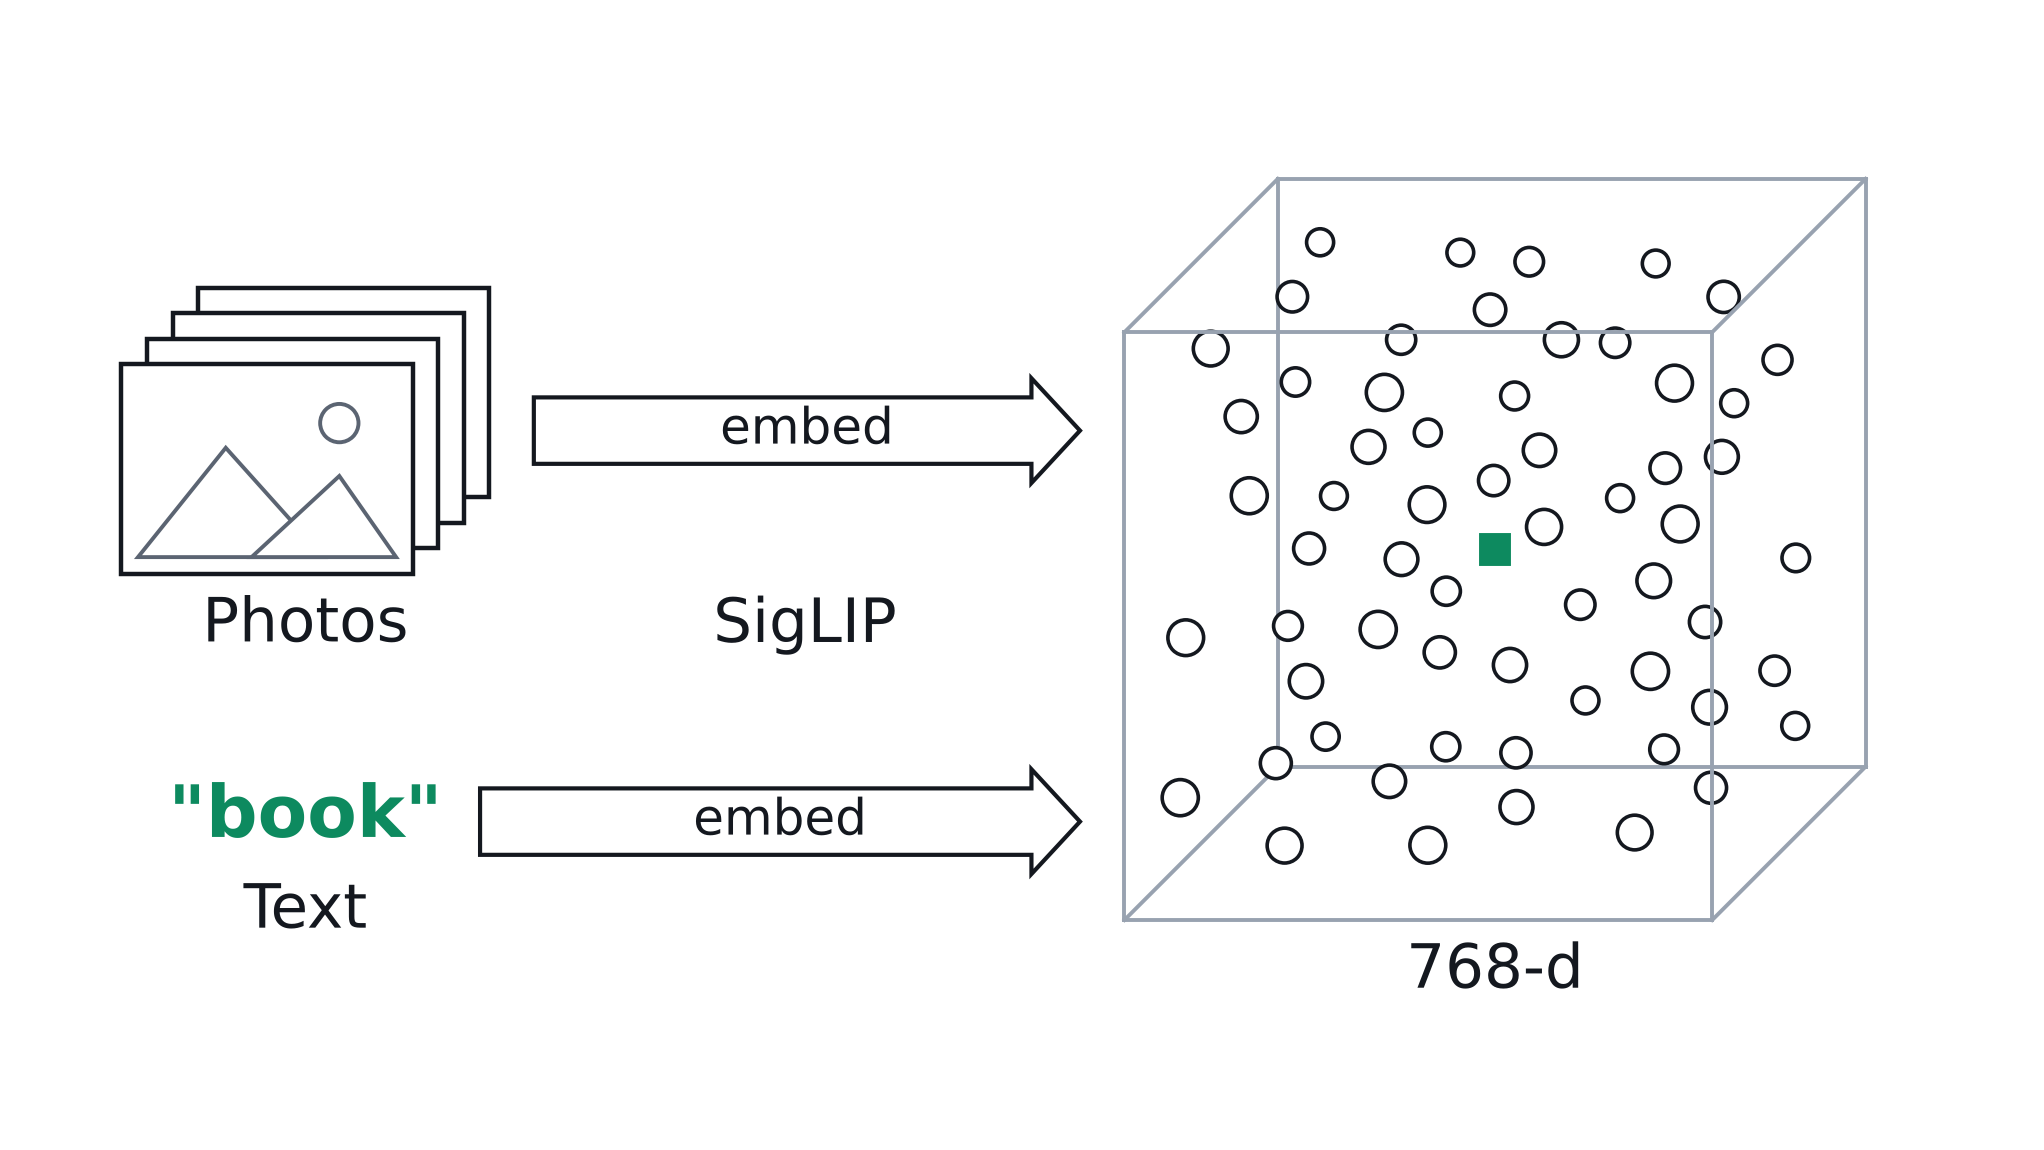
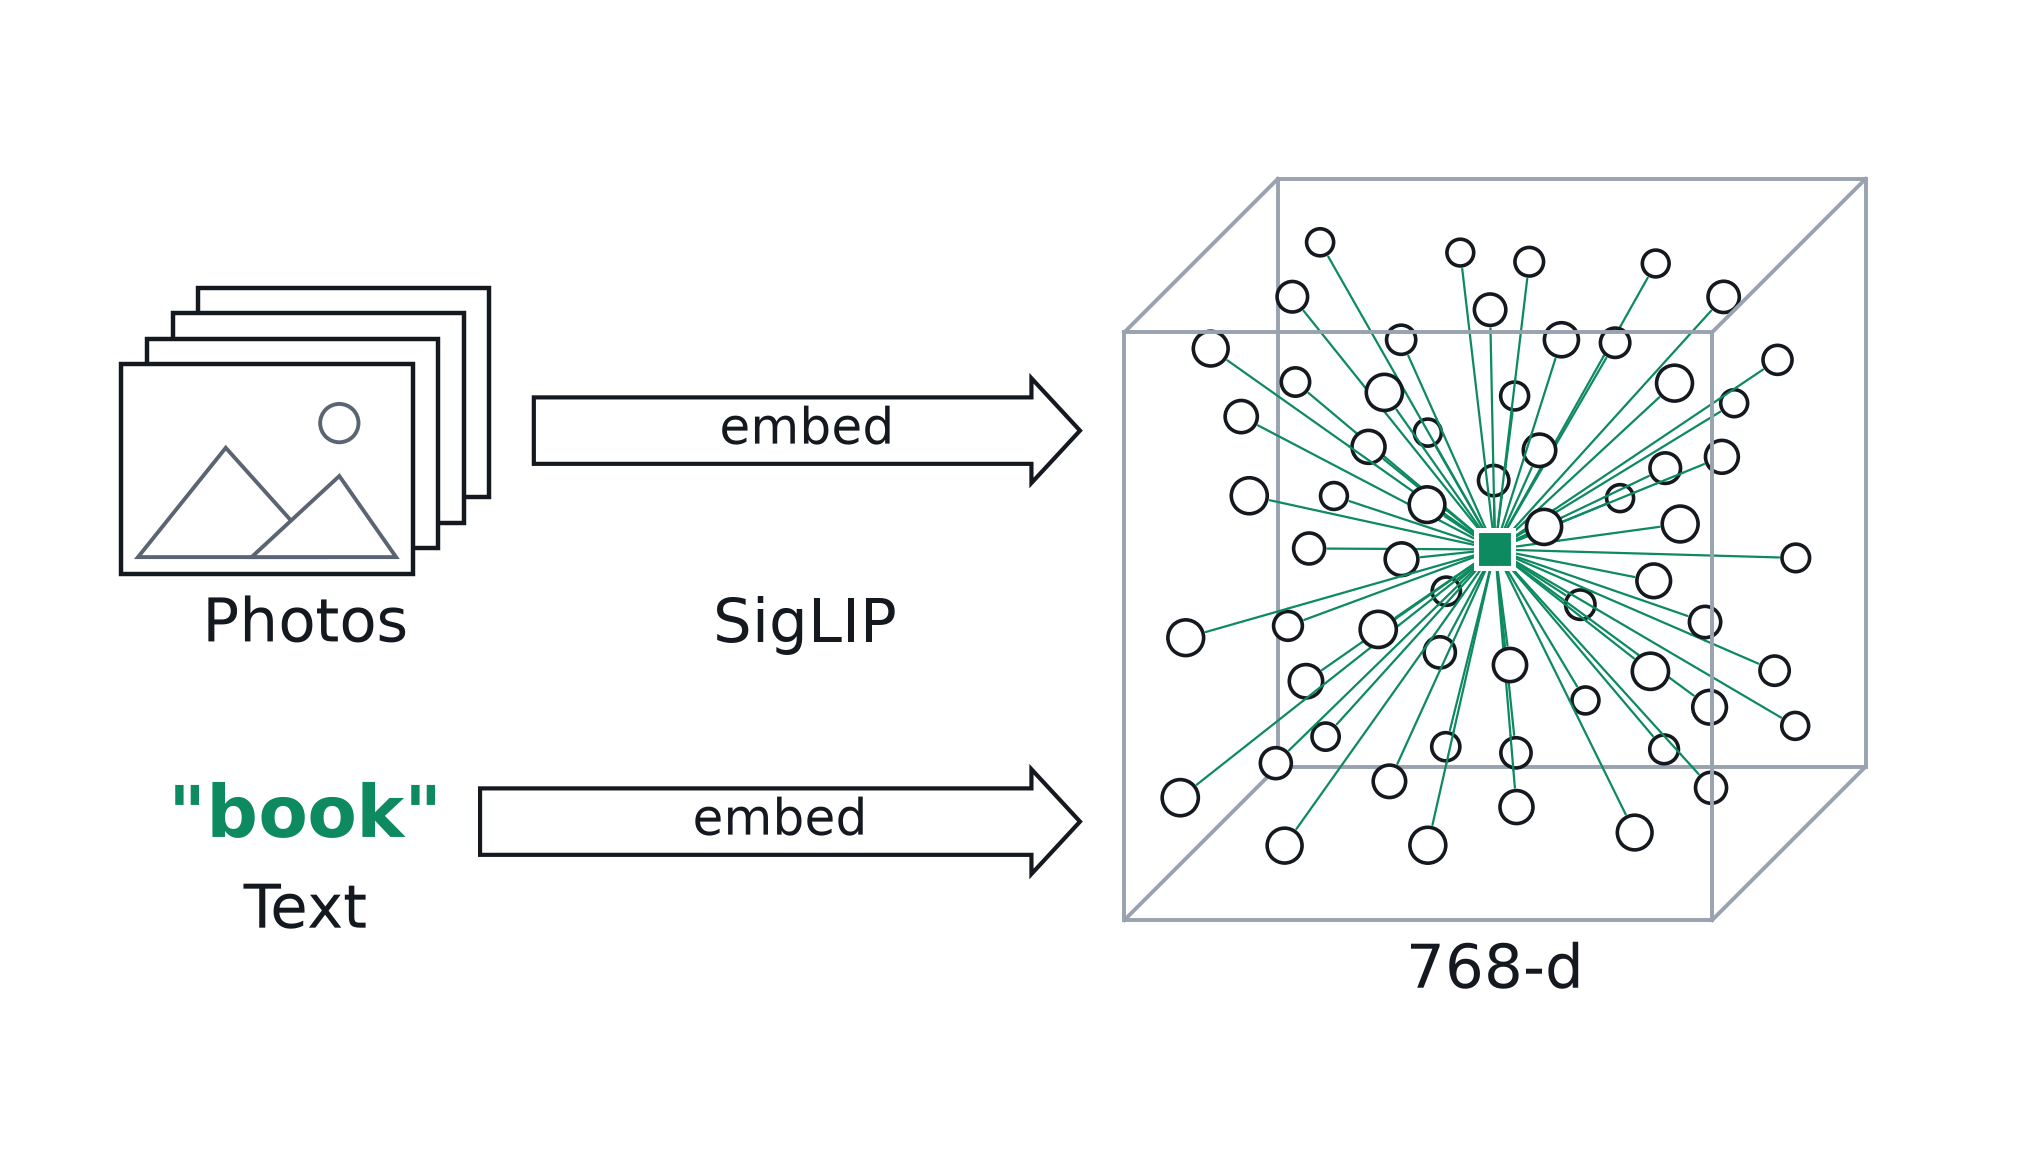
Slides (#5203): Embed-time Stories ends on the lines to the text
Embed-time Stories gains a fourth page (d): the square for "book" with a
thin green line to every photo in the cube, which is how close each photo
is to the phrase and what the next slides work with. Per the build rule the
new frame is the slide (embed-flow.webp) and the old final is now stage
build3; the fragment gains the build3 marker and a spoken note for d.

The lines keep the cube's depth illusion. Each is cut where it crosses
another dot and each stretch is stacked at the depth it has reached, on the
dots' own scale (_flow_z), so a nearer dot hides the line and a farther one
sits under it. Every line passes behind the cube's front edges, stops at
its own dot's outline, and meets the square at a white keyline, without
which the sixty converging lines swallowed the square on the slide.

The stage 2-4 pages are unchanged except for text, which this container's
matplotlib 3.11 (FreeType 2.14) places a sub-pixel off the committed
renders; all four stages are regenerated together so the build stays
pixel-consistent between pages.

Claude-Session: https://claude.ai/code/session_01Kwsjo9xjqvr2CQGUmDy7E9

diff --git a/slides/figs/src/make-intro-figs.py b/slides/figs/src/make-intro-figs.py
@@ -1570,11 +1570,27 @@ EMBED_WORD = "embed"
 #: say it is a string and not a label the corpus carries.
 QUERY_TEXT = '"book"'
 
-#: The four beats of the drawing, and the first one the deck shows: the pile of
+#: The five beats of the drawing, and the first one the deck shows: the pile of
 #: photographs alone was a page of its own until the owner cut it (#5171), so
 #: the slide opens on the pile already going into the cube. See `embed_flow_fig`.
-EMBED_FLOW_STAGES = 4
+EMBED_FLOW_STAGES = 5
 EMBED_FLOW_FIRST = 2
+
+#: The last beat's lines, from the phrase's square to every photo (owner,
+#: #5203): how close each photo is to "book", which is what the next slides
+#: work with. In `GREEN`, because they are the phrase's, and thin, because
+#: sixty of them have to read as a fan out of the square rather than as a green
+#: blot over the cloud. Each stops at its photo's outline, where the circle's
+#: own ink takes over (`_query_lines`).
+QUERY_LINE_PT = 0.8
+#: A dot's outline width, which is where a line stops short of the dot's centre.
+FLOW_DOT_EDGE_PT = 1.3
+#: The square's own outline, in its fill colour, and the white keyline the
+#: lines stop at around it. Sixty lines converging on a mark a few pixels wide
+#: merge into a green star there, and on the slide the square read as the hub
+#: of the fan rather than as a thing in the space; the keyline keeps its edges.
+QUERY_EDGE_PT = 1.4
+QUERY_KEYLINE_PT = 1.8
 
 #: The block arrows' shaft width and head, in units.
 FLOW_ARROW_W, FLOW_HEAD_W, FLOW_HEAD_L = 0.52, 0.82, 0.38
@@ -1776,9 +1792,19 @@ def _block_arrow(ax: plt.Axes, start: tuple[float, float], end: tuple[float, flo
 
 
 #: Where the cube's edges sit in the stack: the three hidden ones under every
-#: dot, the nine the viewer can see over every dot. The dots are drawn at
-#: 5 to 7 (`_embed_flow_stage`), so these bracket them.
+#: dot, the nine the viewer can see over every dot. The dots, and the lines
+#: between them, are drawn at 5 to 7 by depth (`_flow_z`), so these bracket
+#: them.
 CUBE_BACK_Z, CUBE_FRONT_Z = 2, 7.5
+
+
+def _flow_z(depth: float) -> float:
+    """The stacking order of something `depth` into the cube (0 front, 1 back): 7 at the front, 5 at the back.
+
+    One scale for the dots and the lines between them, so whichever is nearer
+    the viewer where they cross is the one drawn on top.
+    """
+    return 5 + 2 * (1 - depth)
 
 
 def _wire_cube(ax: plt.Axes, x0: float, y0: float) -> None:
@@ -1819,7 +1845,94 @@ def _wire_cube(ax: plt.Axes, x0: float, y0: float) -> None:
 
 
 def _flow_dot(ax: plt.Axes, x: float, y: float, radius: float, z: float) -> None:
-    ax.add_patch(plt.Circle((x, y), radius, facecolor="white", edgecolor=INK, linewidth=1.3, zorder=z))
+    ax.add_patch(plt.Circle((x, y), radius, facecolor="white", edgecolor=INK, linewidth=FLOW_DOT_EDGE_PT, zorder=z))
+
+
+def _flow_radius(depth: float) -> float:
+    """A dot's radius `depth` into the cube: `FLOW_DEPTH_SHRINK` smaller at the back than at the front."""
+    return FLOW_R * (1.0 - FLOW_DEPTH_SHRINK * depth)
+
+
+def _query_lines(ax: plt.Axes, cube_x: float, cube_y: float) -> None:
+    """A green line from the phrase's square to every dot, each at its own depth in the cube.
+
+    The square sits at the cube's centre and the dots all through it, so a line
+    runs in depth as well as across the page: towards the viewer to a dot near
+    the front, away to one at the back. The page is flat, though, and one line
+    has one place in the stack, so a line drawn whole would pass over every dot
+    it crosses or under every one, and the cloud would flatten into a picture
+    of a star pasted over a picture of a box.
+
+    What the stack has to get right is only where a line *crosses* a dot, so
+    each line is cut there: wherever it passes over another dot's disc, that
+    stretch is stacked at the depth the line has reached at that point, on the
+    dots' own scale (`_flow_z`). A dot nearer the viewer than the line is drawn
+    over it, so the line passes behind; one farther back is drawn under it.
+    Everything else holds without help: every line is inside the cube, so the
+    front edges cover all of them and the hidden back edges none; and the
+    square, drawn over the cloud as it always was, covers where they start,
+    inside a white keyline (`QUERY_KEYLINE_PT`) that keeps it a square.
+
+    Each line stops at its own dot's outline rather than its centre, for the
+    same reason: a line that reaches a dot at the back arrives from in front of
+    it and would otherwise run on across its face.
+    """
+    origin = np.array([cube_x, cube_y])
+    centre = np.full(3, 0.5)
+    start = origin + _cube_project(centre)
+    points = _flow_field_3d()
+    flat = np.array([origin + _cube_project(p) for p in points])
+    unit_per_pt = 1 / UNIT_PT
+    half_line = QUERY_LINE_PT / 2 * unit_per_pt
+
+    # The keyline: white, under the square and over every line, and clear of every dot.
+    key_half = QUERY_SIDE / 2 + (QUERY_EDGE_PT / 2 + QUERY_KEYLINE_PT) * unit_per_pt
+    for k, point in enumerate(points):
+        clearance = float(np.abs(flat[k] - start).max()) - _flow_radius(point[2]) - FLOW_DOT_EDGE_PT / 2 * unit_per_pt
+        assert clearance > key_half, f"dot {k} sits inside the square's keyline, which would cut into it"
+    ax.add_patch(
+        plt.Rectangle(
+            (start[0] - key_half, start[1] - key_half),
+            2 * key_half,
+            2 * key_half,
+            facecolor="white",
+            edgecolor="none",
+            zorder=7.9,
+        )
+    )
+    for k, point in enumerate(points):
+        run = flat[k] - start
+        length = float(np.hypot(*run))
+        # Stop where the line's rounded end just meets the outline's outer edge.
+        stop = 1.0 - (_flow_radius(point[2]) + FLOW_DOT_EDGE_PT / 2 * unit_per_pt + half_line) / length
+        assert stop > 0, f"dot {k} sits under the square — its line has nowhere to go"
+        cuts = {0.0, stop}
+        for j, other in enumerate(points):
+            if j == k:
+                continue
+            # Where the line comes within one dot radius (plus its own half width) of `other`'s centre.
+            reach = _flow_radius(other[2]) + FLOW_DOT_EDGE_PT / 2 * unit_per_pt + half_line
+            rel = start - flat[j]
+            a, b, c = run @ run, 2 * run @ rel, rel @ rel - reach**2
+            disc = b * b - 4 * a * c
+            if disc <= 0:
+                continue
+            for t in ((-b - np.sqrt(disc)) / (2 * a), (-b + np.sqrt(disc)) / (2 * a)):
+                if 0.0 < t < stop:
+                    cuts.add(float(t))
+        cuts = sorted(cuts)
+        for t0, t1 in zip(cuts[:-1], cuts[1:]):
+            depth = 0.5 + (t0 + t1) / 2 * (point[2] - 0.5)
+            p0, p1 = start + t0 * run, start + t1 * run
+            ax.plot(
+                [p0[0], p1[0]],
+                [p0[1], p1[1]],
+                color=GREEN,
+                linewidth=QUERY_LINE_PT,
+                solid_capstyle="round",
+                # A hair under the dots' scale, so a stretch exactly level with a dot sits behind it.
+                zorder=_flow_z(depth) - 1e-3,
+            )
 
 
 def embed_flow_fig() -> None:
@@ -1833,16 +1946,19 @@ def embed_flow_fig() -> None:
     comes out as a point in the same space. That is the whole reason the seed
     works, and the deck had been assuming it.
 
-    Three pages, one per beat after the first, because the last beat is the
-    one that carries the argument and it needs the room looking at the cube
-    when it arrives. The first beat, the photographs alone, is drawn on every
+    Four pages, one per beat after the first, because the square's landing is
+    the beat that carries the argument and it needs the room looking at the
+    cube when it arrives; then the lines from it to every photo, which turn
+    "the same space" into "this close to each one", the thing the next slides
+    rank by (#5203). The first beat, the photographs alone, is drawn on every
     page but never shown by itself (`EMBED_FLOW_FIRST`, #5171). Every
     page is the final drawing with the later beats removed, and nothing moves
     between them (`slides/STYLE.md`) — the shared untrimmed canvas gets that
-    for free. The last page does *cover* a little of the cloud, which is the
-    one thing it is allowed to do: the square lands in a crowded space because
-    the space is crowded, and a gap left open for it three pages early is a
-    hole the room would spend those pages wondering about.
+    for free, and pins every stage to the final page's crop without a
+    `tight_box`. The square's page does *cover* a little of the cloud, which is
+    the one thing it is allowed to do: the square lands in a crowded space
+    because the space is crowded, and a gap left open for it three pages early
+    is a hole the room would spend those pages wondering about.
     """
     for page, stage in enumerate(range(EMBED_FLOW_FIRST, EMBED_FLOW_STAGES), 1):
         save(
@@ -1898,9 +2014,7 @@ def _embed_flow_stage(stage: int) -> plt.Figure:
         _wire_cube(ax, cube_x, cube_y)
         for point in _flow_field_3d():
             dx, dy = _cube_project(point)
-            _flow_dot(
-                ax, cube_x + dx, cube_y + dy, FLOW_R * (1.0 - FLOW_DEPTH_SHRINK * point[2]), 5 + 2 * (1 - point[2])
-            )
+            _flow_dot(ax, cube_x + dx, cube_y + dy, _flow_radius(point[2]), _flow_z(point[2]))
         name(cube_x + cube_w / 2, cube_y, "768-d")
         ax.text(*SIGLIP_XY, "SigLIP", ha="center", va="center", fontsize=FLOW_NAME_PT, color=INK, zorder=4)
 
@@ -1940,10 +2054,14 @@ def _embed_flow_stage(stage: int) -> plt.Figure:
                 QUERY_SIDE,
                 facecolor=GREEN,
                 edgecolor=GREEN,
-                linewidth=1.4,
+                linewidth=QUERY_EDGE_PT,
                 zorder=8,
             )
         )
+
+    # ── beat 5: and how close it is to every one of them ─────────────────────
+    if stage >= 5:
+        _query_lines(ax, cube_x, cube_y)
     return fig
 
 
@@ -2051,7 +2169,7 @@ def _umap_flow_stage(stage: int) -> plt.Figure:
     _wire_cube(ax, cube_x, cube_y)
     for point in _flow_field_3d():
         dx, dy = _cube_project(point)
-        _flow_dot(ax, cube_x + dx, cube_y + dy, FLOW_R * (1.0 - FLOW_DEPTH_SHRINK * point[2]), 5 + 2 * (1 - point[2]))
+        _flow_dot(ax, cube_x + dx, cube_y + dy, _flow_radius(point[2]), _flow_z(point[2]))
     name(cube_x + cube_w / 2, cube_y, "768-d")
 
     if stage >= 2:

diff --git a/slides/fragments/embed-flow.md b/slides/fragments/embed-flow.md
@@ -8,6 +8,8 @@
 
 <!-- build: figs/embed-flow.build2.webp -->
 
+<!-- build: figs/embed-flow.build3.webp -->
+
 <!-- **a** — Let's talk about how this works. There's an embedder called
      SigLIP. It can take a pile of pictures and make them vectors in content
      space. (Content-space is like 768-dimensions, but of course we drew it 3-d
@@ -17,3 +19,7 @@
 
 <!-- **c** — and put THAT into content space. So now we can see which photos
      are close to each other or to our text. -->
+
+<!-- **d** — Now here's a line from "book" to every photo. Each one is how
+     close that photo is to "book", and that closeness is what the next slides
+     use. -->
